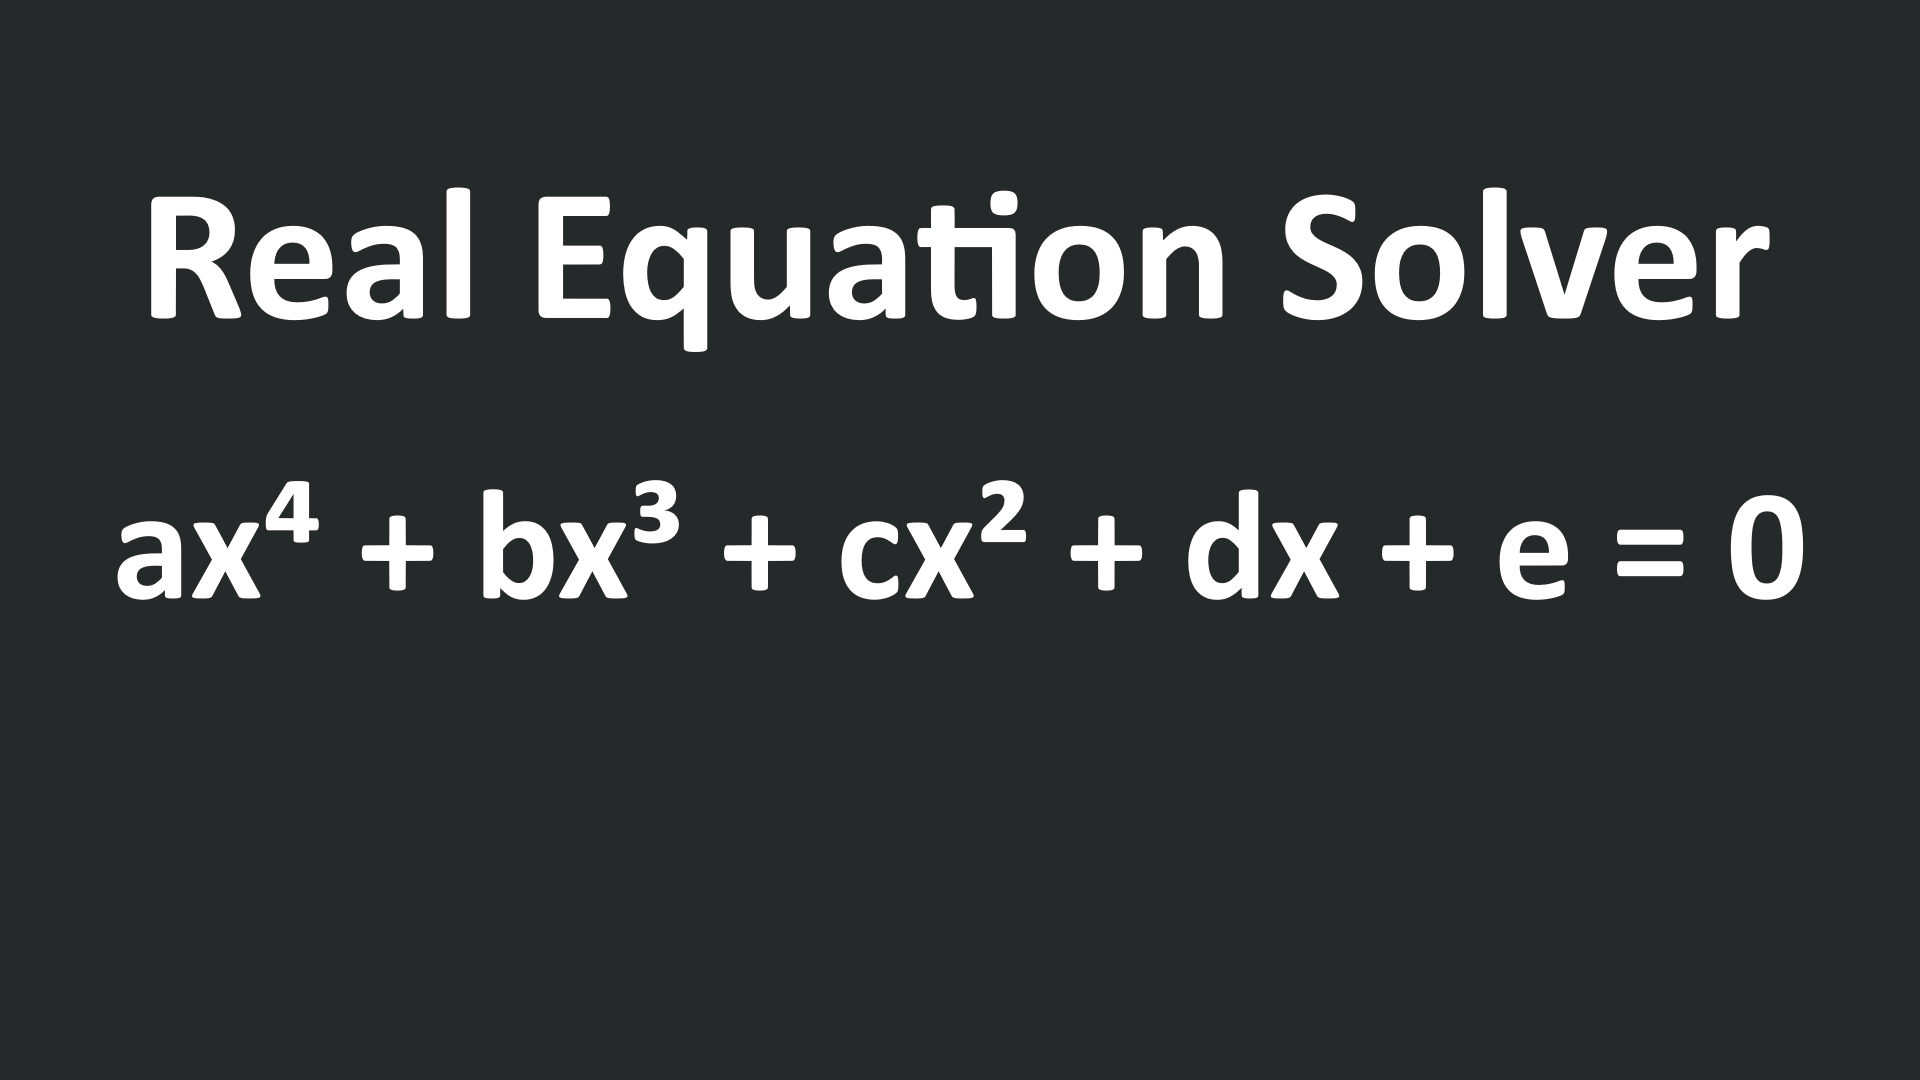
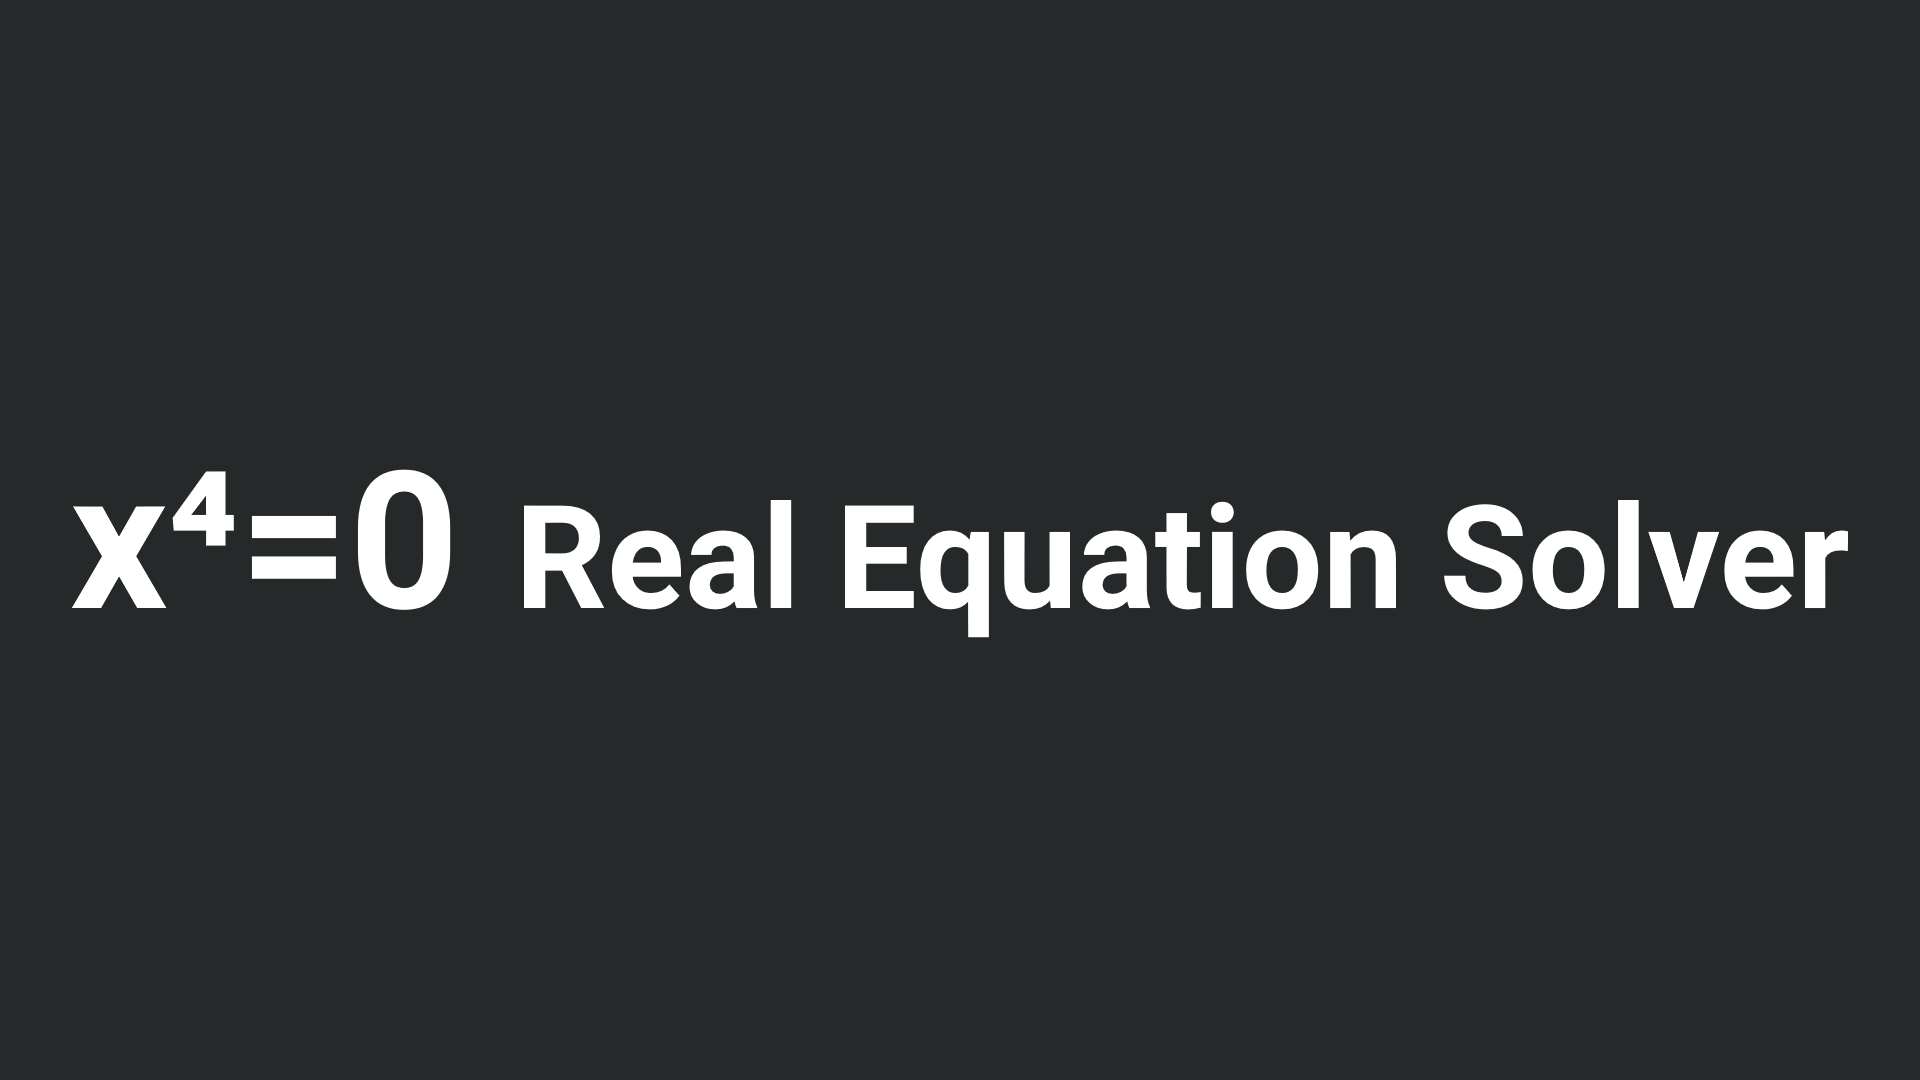
v5.0.0

Changed region(s): [[0.0312, 0.4278, 0.9688, 0.6111], [0.2812, 0.1833, 0.9375, 0.3361], [0.0625, 0.1528, 0.25, 0.3056]]

diff --git a/addons/real_equation_solver/README.md b/addons/real_equation_solver/README.md
@@ -1,0 +1,148 @@
+# Real Equation Solver
+
+Equation solver and generator for real-valued polynomial equations up to 4th degree.
+
+---
+
+## Table of Content
+1. [Download](#download)
+2. [Example](#example)
+3. [Reference](#reference)
+4. [Contributing](#contributing)
+
+---
+
+## Download
+- [Asset Store](https://store-beta.godotengine.org/asset/neclor/real-equation-solver)
+- [Asset Library](https://godotengine.org/asset-library/asset/2998)
+- [GitHub](https://github.com/neclor/godot-real-equation-solver)
+
+---
+
+## Example
+```gdscript
+func example() -> void:
+	print(ResSolver.linear(5, -10)) # Prints 2
+	print(ResSolver.quadratic(1, 1, -6)) # Prints [-3, 2]
+	print(ResSolver.cubic(2, -11, 12, 9)) # Prints [-0.5, 3]
+	print(ResSolver.quartic(1, -10, 35, -50, 24)) # Prints [1, 2, 3, 4]
+
+	print(ResGenerator.quartic(1, 2, 3, 4)) # Prints [1, -10, 35, -50, 24]
+```
+
+---
+
+## Reference
+
+1. RealEquationSolver
+	1. [ResSolver](#ressolver)
+	2. [ResGenerator](#resgenerator)
+
+---
+
+### `ResSolver`
+
+```gdscript
+float linear(a: float, b: float) static
+```
+Returns a real root of an equation of the form: ax + b = 0
+
+```gdscript
+float linear_array(coeffs: Array[float]) static
+```
+See `linear()`.
+
+```gdscript
+Array[float] quadratic(a: float, b: float, c: float) static
+```
+Returns a sorted array of real roots of an equation of the form: ax² + bx + c = 0.
+
+```gdscript
+Array[float] quadratic_array(coeffs: Array[float]) static
+```
+See `quadratic()`.
+
+```gdscript
+Array[float] cubic(a: float, b: float, c: float, d: float) static
+```
+Returns a sorted array of real roots of an equation of the form: ax³ + bx² + cx + d = 0.  
+Warning: For large argument values, answers may be inaccurate or incorrect, e.g. >= 10_000_000.
+
+```gdscript
+Array[float] cubic_array(coeffs: Array[float]) static
+```
+See `cubic()`.
+
+```gdscript
+Array[float] quartic(a: float, b: float, c: float, d: float, e: float) static
+```
+Returns a sorted array of real roots of an equation of the form: ax⁴ + bx³ + cx² + dx + e = 0.  
+Warning: For large argument values, answers may be inaccurate or incorrect, e.g. >= 10_000_000.
+
+```gdscript
+Array[float] quartic_array(coeffs: Array[float]) static
+```
+See `quartic()`.
+
+```gdscript
+Array[float] solve(...coeffs: Array) vararg static
+```
+Returns a sorted array of the real roots of an equation based on the number of arguments.  
+Warning: For large argument values, answers may be inaccurate or incorrect, e.g. >= 10_000_000.
+
+```gdscript
+Array[float] solve_array(coeffs: Array[float]) static
+```
+See `solve()`.
+
+---
+
+### `ResGenerator`
+
+Returns the coefficients of a equation with the given roots, in the form: ax + b = 0. Where the leading coefficient a is always 1. 
+```gdscript
+Array[float] linear(r0: float) static
+```
+
+See `linear()`.
+```gdscript
+Array[float] linear_array(roots: Array[float]) static
+```
+
+Returns the coefficients of a equation with the given roots, in the form: ax² + bx + c = 0. Where the leading coefficient a is always 1. 
+```gdscript
+Array[float] quadratic(...roots: Array) vararg static
+```
+
+See `quadratic()`.
+```gdscript
+Array[float] quadratic_array(roots: Array[float]) static
+```
+
+Returns the coefficients of a equation with the given roots, in the form: ax³ + bx² + cx + d = 0, where the leading coefficient a is always 1 
+```gdscript
+Array[float] cubic(...roots: Array) vararg static
+```
+
+See `cubic()`.
+```gdscript
+Array[float] cubic_array(roots: Array[float]) static
+```
+
+Returns the coefficients of a equation with the given roots, in the form: ax⁴ + bx³ + cx² + dx + e = 0, where the leading coefficient a is always 1
+```gdscript
+Array[float] quartic(...roots: Array) vararg static
+```
+
+See `quartic()`.
+```gdscript
+Array[float] quartic_array(roots: Array[float]) static
+```
+
+---
+
+## Contributing
+
+- Contributions are welcome. Open an issue or PR.
+
+---
